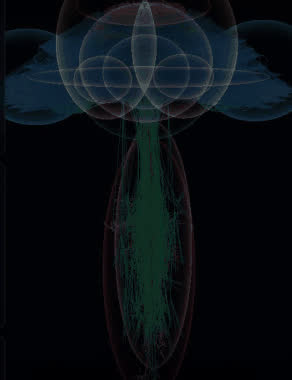
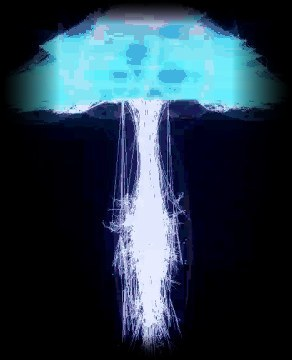
FlySoul video: real footage, Gundyr stills and the dreaming brain
Frames come from the flysoul repo's own recordings:
- a graded Gundyr still (17.2 s of the victory clip) opens and closes
  the loop, with the lock-on on the knight the fly controls; a still
  keeps the loop point seamless
- the victory clip's last 8 s play once from the start of the
  added-network scene
- the visualizer's dreaming segment, blacks crushed and edges feathered,
  blends into the MaleCNS scene without an outline

Claude-Session: https://claude.ai/code/session_01JSaJ6CUKtHwC4GkXxJAqaq

diff --git a/sinek/index.html b/sinek/index.html
@@ -293,35 +293,53 @@ function flyTop(c, x, y, s, wingA) {
 /* repodaki gerçek görüntüler (heyobi/flysoul) */
 const ASSET = 'assets/';
 function seq(prefix, n) { const a = []; for (let i = 0; i < n; i++) { const im = new Image(); im.src = ASSET + prefix + String(i).padStart(3, '0') + '.jpg'; a.push(im); } return a; }
-const CLIP_A = seq('a_', 64), CLIP_V = seq('v_', 64), BRAIN = seq('b_', 48);
-const ASSETS_READY = Promise.all([...CLIP_A, ...CLIP_V, ...BRAIN].map(im => im.decode().catch(() => {})));
+const HERO = new Image(); HERO.src = ASSET + 'gundyr_dik.jpg';
+const CLIP_V = seq('v_', 64), BRAIN = seq('b_', 21);
+const ASSETS_READY = Promise.all([HERO, ...CLIP_V, ...BRAIN].map(im => im.decode().catch(() => {})));
 const frameOf = (arr, k) => arr[Math.floor(TT / P * k * arr.length) % arr.length];
+/* uyku tekrarı (dreaming) kareleri, ileri geri oynar */
+const brainFrame = () => BRAIN[(i => i < 21 ? i : 40 - i)(Math.floor(TT / P * 12 * 40) % 40)];
 function drawImg(c, im, x, y, w, h) {
   if (im && im.complete && im.naturalWidth) c.drawImage(im, x, y, w, h);
   else { c.fillStyle = '#111'; c.fillRect(x, y, w, h); }
 }
-function gamePanel(c, arr, x, y, w, cap) {
+function gamePanel(c, im, x, y, w, cap) {
   const h = w * 272 / 480;
   box(c, x - .08, y - .08, w + .16, h + .16, .12, '#000', 'rgba(255,255,255,.35)', .03);
-  c.save(); c.beginPath(); rrp(c, x, y, w, h, .08); c.clip(); drawImg(c, frameOf(arr, 7), x, y, w, h); c.restore();
+  c.save(); c.beginPath(); rrp(c, x, y, w, h, .08); c.clip(); drawImg(c, im, x, y, w, h); c.restore();
   if (cap) { disc(c, x + .25, y + .3, .08, '#ff3b30'); T(c, cap, x + .42, y + .38, .22, '#fff', { w: 700 }); }
   return h;
 }
+/* oyuncunun kendi kaydından Gundyr karesi, sinematik renk ve kenar karartmasıyla */
+function heroShot(c, x, y, w, alpha) {
+  const h = w * 360 / 420;
+  c.save(); c.globalAlpha = alpha; drawImg(c, HERO, x, y, w, h);
+  c.globalCompositeOperation = 'overlay'; c.fillStyle = 'rgba(224,123,57,.45)'; c.fillRect(x, y, w, h);
+  c.globalCompositeOperation = 'source-over';
+  const v = c.createRadialGradient(x + w * .46, y + h * .35, h * .2, x + w * .5, y + h * .5, h * .85);
+  v.addColorStop(0, 'rgba(10,6,6,0)'); v.addColorStop(1, 'rgba(10,6,6,.85)'); c.fillStyle = v; c.fillRect(x, y, w, h);
+  c.restore();
+  glow(c, x + w * .46, y + h * .11, w * .07, '255,110,40', (.35 + .1 * osc(25)) * alpha);
+  return h;
+}
+/* zafer kaydı, sahneye girildiği anda baştan başlar ve bir kez oynar */
+const victoryFrame = () => CLIP_V[Math.max(0, Math.min(CLIP_V.length - 1, Math.floor((TT - ST[6]) * 8)))];
 const SC = [
 /* V0 arena */
-{ p:{ k:'c', c:[-0.8,1.2], r:0.5 }, draw(c){
-  c.fillStyle = lg(c,0,-8,0,8,[[0,'#120f12'],[.55,'#3b2f28'],[1,'#1d1815']]); c.fillRect(-4.5,-8,9,16);
-  glow(c,1.5,-1,5,'224,123,57',.18);
-  c.fillStyle = '#1a1614';
-  [[-4.5,-3.5,1.1,7],[3.4,-4.5,1.1,8]].forEach(([x,y,w,h]) => c.fillRect(x,y,w,h));
-  c.fillStyle = '#2b2521'; c.fillRect(-4.5,3.2,9,4.8);
-  c.strokeStyle = 'rgba(0,0,0,.35)'; c.lineWidth = .03; c.beginPath(); for (let i = 0; i < 9; i++) { c.moveTo(-4.5,3.6+i*.5); c.lineTo(4.5,3.4+i*.55); } c.stroke();
-  for (let i = 0; i < 30; i++) { const y = 3 - ((TT/P*6 + rnd(i)) % 1) * 9; disc(c,-4.5+rnd(i+9)*9,y,.03,`rgba(255,150,70,${.3+.4*rnd(i+3)})`); }
+{ p:{ k:'c', c:[1.5,0.6], r:0.42 }, draw(c){
+  c.fillStyle = '#1a1513'; c.fillRect(-4.5,-8,9,16);
+  const x = -4.2, y = -4.35, w = 8.4, h = heroShot(c,x,y,w,1);
+  c.fillStyle = lg(c,0,y,0,y+1.1,[[0,'#1a1513'],[1,'rgba(26,21,19,0)']]); c.fillRect(x,y-.01,w,1.1);
+  c.fillStyle = lg(c,0,y+h*.6,0,y+h,[[0,'rgba(26,21,19,0)'],[1,'#1a1513']]); c.fillRect(x,y+h*.6,w,h*.41);
+  c.fillStyle = lg(c,x,0,x+.9,0,[[0,'#1a1513'],[1,'rgba(26,21,19,0)']]); c.fillRect(x-.01,y,.9,h);
+  c.fillStyle = lg(c,x+w-.9,0,x+w,0,[[0,'rgba(26,21,19,0)'],[1,'#1a1513']]); c.fillRect(x+w-.9,y,.91,h);
+  for (let i = 0; i < 40; i++) { const yy = 3 - ((TT/P*6 + rnd(i)) % 1) * 10; disc(c,-4.5+rnd(i+9)*9,yy,.03,`rgba(255,150,70,${.3+.4*rnd(i+3)})`); }
   T(c,'Bir sinek beyni',-3.3,-5.6,.78,PAPER,{w:700});
   T(c,'Dark Souls III oynuyor',-3.3,-4.95,.46,EMBER,{w:700,max:7.2});
-  gamePanel(c,CLIP_A,-3.3,-4.3,6.8,'gerçek kayıt');
-  lockOn(c,-.8,1.2);
-  disc(c,-.8,1.2,.5,'#2b2521');
+  T(c,'Karşısında: Iudex Gundyr (gerçek oyun kaydı)',-3.3,-4.45,.24,PAPER,{w:600,max:7.2});
+  lockOn(c,1.5,.6);
+  T(c,'kontrolde: sinek beyni',1.1,1.8,.24,'#fff',{w:700,a:'center'});
+  disc(c,1.5,.6,.42,'#2b2521');
 }},
 /* V1 sinek */
 { p:{ k:'c', c:[0.4,-1.1], r:0.36 }, draw(c){
@@ -336,8 +354,8 @@ const SC = [
 /* V2 harita */
 { p:{ k:'c', c:[0.9,-1.5], r:0.5 }, draw(c){
   c.fillStyle = '#05070f'; c.fillRect(-4.5,-8,9,16);
-  const w = 6.6, h = w * 380 / 292, x = .9 - w/2, y = -3.3;
-  c.save(); c.beginPath(); c.ellipse(x + w/2, y + h/2, w/2, h/2, 0, 0, TAU); c.clip(); c.globalCompositeOperation = 'lighter'; const im = frameOf(BRAIN,7); drawImg(c, im, x, y, w, h); c.globalAlpha = .6; drawImg(c, im, x, y, w, h); c.restore();
+  const w = 6.6, h = w * 360 / 292, x = .9 - w/2, y = -3.3;
+  c.save(); c.globalCompositeOperation = 'lighter'; const im = brainFrame(); drawImg(c, im, x, y, w, h); c.globalAlpha = .6; drawImg(c, im, x, y, w, h); c.restore();
   glow(c,.9,-1.5,1.0,'232,195,106',.3); disc(c,.9,-1.5,.6,null,GOLD,.05);
   T(c,'MaleCNS v1.0',-3.3,-5.6,.78,PAPER,{w:700});
   T(c,'166.700 nöron',-3.3,-4.95,.46,CYAN,{w:700});
@@ -420,15 +438,19 @@ const SC = [
   for (let a = 0; a < 2; a++) for (const y0 of LY[a][1]) for (const y1 of LY[a+1][1]) { c.beginPath(); c.moveTo(LY[a][0],y0); c.lineTo(LY[a+1][0],y1); c.strokeStyle = 'rgba(216,79,216,.35)'; c.lineWidth = .02; c.stroke(); }
   LY.forEach(([x,ys]) => ys.forEach((y,k) => { const on = rnd(k + x*7 + Math.floor(TT/P*40)) < .5; disc(c,x,y,.13,on ? MAG : 'rgba(216,79,216,.45)'); }));
   T(c,'yapay ağ',3.4,-3.35,.2,MAG,{w:700,a:'center'});
-  gamePanel(c,CLIP_V,-3.3,-1.05,6.8,'gerçek kayıt: ek ağla kazanılan dövüş');
+  gamePanel(c,victoryFrame(),-3.3,-1.05,6.8,'gerçek kayıt: ek ağla kazanılan dövüş');
   glow(c,1.4,3.6,1.2,'216,79,216',.45+.1*osc(25)); disc(c,1.4,3.6,.62,null,MAG,.05);
   T(c,'karar',1.4,4.45,.22,MAG,{w:700,a:'center'});
 }},
 /* V7 soru */
 { p:{ k:'c', c:[2.3,1.0], r:0.34 }, draw(c){
-  c.fillStyle = lg(c,0,-8,0,8,[[0,'#120f12'],[1,'#2b2230']]); c.fillRect(-4.5,-8,9,16);
+  c.fillStyle = '#1c1720'; c.fillRect(-4.5,-8,9,16);
+  const hx = -4.7, hy = -3.4, hw = 9.4, hh = heroShot(c,hx,hy,hw,.6);
+  c.fillStyle = lg(c,0,hy,0,hy+1.3,[[0,'#1c1720'],[1,'rgba(28,23,32,0)']]); c.fillRect(hx,hy-.01,hw,1.3);
+  c.fillStyle = lg(c,0,hy+hh*.5,0,hy+hh,[[0,'rgba(28,23,32,0)'],[1,'#1c1720']]); c.fillRect(hx,hy+hh*.5,hw,hh*.51);
   const n = TW(c,'Harita yetmiyor. Asıl soru: beyin nasıl öğrenir?',-3.3,-5.5,.56,PAPER,7.3,1.15,{w:700});
   T(c,'FlySoul, github.com/heyobi/flysoul',-3.3,-5.5+n*.64+.2,.24,DIM,{w:500});
+  T(c,'Gundyr hâlâ bekliyor',-3.3,-5.5+n*.64+.62,.3,EMBER,{w:700});
   c.beginPath(); c.moveTo(-2.4,.2); c.bezierCurveTo(-2.9,2.8,-2.0,3.6,-1.2,2.7); c.lineTo(-.4,2.0); c.lineTo(1.2,2.0); c.lineTo(2.0,2.7);
   c.bezierCurveTo(2.8,3.6,3.7,2.8,3.2,.2); c.bezierCurveTo(3.0,-.8,2.2,-.9,1.6,-.6); c.lineTo(-.8,-.6); c.bezierCurveTo(-1.4,-.9,-2.2,-.8,-2.4,.2); c.closePath();
   c.fillStyle = '#23202a'; c.fill(); c.strokeStyle = '#3d3846'; c.lineWidth = .05; c.stroke();

diff --git a/sinek/uzun/index.html b/sinek/uzun/index.html
@@ -215,34 +215,53 @@ function lockOn(c, x, y, r) {
 /* repodaki gerçek görüntüler (heyobi/flysoul) */
 const ASSET = '../assets/';
 function seq(prefix, n) { const a = []; for (let i = 0; i < n; i++) { const im = new Image(); im.src = ASSET + prefix + String(i).padStart(3, '0') + '.jpg'; a.push(im); } return a; }
-const CLIP_A = seq('a_', 64), CLIP_V = seq('v_', 64), BRAIN = seq('b_', 48);
-const ASSETS_READY = Promise.all([...CLIP_A, ...CLIP_V, ...BRAIN].map(im => im.decode().catch(() => {})));
+const HERO = new Image(); HERO.src = ASSET + 'gundyr_genis.jpg';
+const CLIP_V = seq('v_', 64), BRAIN = seq('b_', 21);
+const ASSETS_READY = Promise.all([HERO, ...CLIP_V, ...BRAIN].map(im => im.decode().catch(() => {})));
+/* oyuncunun kendi kaydından Gundyr karesi, sinematik renk ve kenar karartmasıyla */
+function heroShot(c, x, y, w, alpha) {
+  const h = w * 360 / 600;
+  c.save(); c.globalAlpha = alpha; drawImg(c, HERO, x, y, w, h);
+  c.globalCompositeOperation = 'overlay'; c.fillStyle = 'rgba(224,123,57,.45)'; c.fillRect(x, y, w, h);
+  c.globalCompositeOperation = 'source-over';
+  const v = c.createRadialGradient(x + w * .4, y + h * .35, h * .2, x + w * .5, y + h * .5, w * .6);
+  v.addColorStop(0, 'rgba(10,6,6,0)'); v.addColorStop(1, 'rgba(10,6,6,.85)'); c.fillStyle = v; c.fillRect(x, y, w, h);
+  c.restore();
+  glow(c, x + w * .317, y + h * .09, w * .05, '255,110,40', (.35 + .1 * osc(25)) * alpha);
+  return h;
+}
+/* zafer kaydı, sahneye varıldığı anda baştan başlar ve bir kez oynar */
+const victoryFrame = () => CLIP_V[S.si === 8 ? Math.min(63, Math.floor(S.holdT * 8)) : S.si === 7 ? 0 : 63];
 const frameOf = (arr, fps) => arr[Math.floor(TT * fps) % arr.length];
+/* uyku tekrarı (dreaming) kareleri, ileri geri oynar */
+const brainFrame = () => BRAIN[(i => i < 21 ? i : 40 - i)(Math.floor(TT * 8.33) % 40)];
 function drawImg(c, im, x, y, w, h) {
   if (im && im.complete && im.naturalWidth) c.drawImage(im, x, y, w, h);
   else { c.fillStyle = '#111'; c.fillRect(x, y, w, h); }
 }
-function gamePanel(c, arr, x, y, w, cap) {
+function gamePanel(c, im, x, y, w, cap) {
   const h = w * 272 / 480;
   box(c, x - .08, y - .08, w + .16, h + .16, .12, '#000', 'rgba(255,255,255,.35)', .03);
-  c.save(); c.beginPath(); rrp(c, x, y, w, h, .08); c.clip(); drawImg(c, frameOf(arr, 8), x, y, w, h); c.restore();
+  c.save(); c.beginPath(); rrp(c, x, y, w, h, .08); c.clip(); drawImg(c, im, x, y, w, h); c.restore();
   if (cap) { disc(c, x + .25, y + .3, .08, '#ff3b30'); T(c, cap, x + .42, y + .38, .22, '#fff', { w: 700 }); }
   return h;
 }
 const SC = [
 /* s0 arena */
-{ name:'Arena', p:{ k:'c', c:[-1.2,0.9], r:0.5 }, draw(c){
-  c.fillStyle = lg(c,0,-4.5,0,4.5,[[0,'#120f12'],[.6,'#3b2f28'],[1,'#1d1815']]); c.fillRect(-8,-4.5,16,9);
-  glow(c,3.5,-.5,6,'224,123,57',.2);
-  c.fillStyle = '#1a1614'; [[-8,-3,1.2,7],[6.8,-4.5,1.2,8]].forEach(([x,y,w,h]) => c.fillRect(x,y,w,h));
-  c.fillStyle = '#2b2521'; c.fillRect(-8,2.6,16,1.9);
-  for (let i = 0; i < 40; i++) { const y = 3 - ((TT*.12 + rnd(i)) % 1) * 7.5; disc(c,-8+rnd(i+9)*16,y,.03,`rgba(255,150,70,${.3+.4*rnd(i+3)})`); }
-  gamePanel(c,CLIP_A,0,-2.5,6.6,'gerçek kayıt');
+{ name:'Arena', p:{ k:'c', c:[3.6,0.3], r:0.45 }, draw(c){
+  c.fillStyle = '#1a1513'; c.fillRect(-8,-4.5,16,9);
+  const x = -.8, y = -3.5, w = 8.8, h = heroShot(c,x,y,w,1);
+  c.fillStyle = lg(c,x,0,x+2.4,0,[[0,'#1a1513'],[1,'rgba(26,21,19,0)']]); c.fillRect(x-.01,y,2.4,h);
+  c.fillStyle = lg(c,0,y,0,y+1.0,[[0,'#1a1513'],[1,'rgba(26,21,19,0)']]); c.fillRect(x,y-.01,w,1.0);
+  c.fillStyle = lg(c,0,y+h*.6,0,y+h,[[0,'rgba(26,21,19,0)'],[1,'#1a1513']]); c.fillRect(x,y+h*.6,w,h*.41);
+  for (let i = 0; i < 50; i++) { const yy = 3 - ((TT*.12 + rnd(i)) % 1) * 8; disc(c,-8+rnd(i+9)*16,yy,.03,`rgba(255,150,70,${.3+.4*rnd(i+3)})`); }
   T(c,'Bir sinek beyni',-6.1,-2.6,.75,PAPER,{w:700});
   T(c,'Dark Souls III oynuyor',-6.1,-1.95,.44,EMBER,{w:700,max:5.8});
   T(c,'Karşısında: Iudex Gundyr',-6.1,-1.35,.26,DIM,{w:600});
-  lockOn(c,-1.2,.9,.5);
-  disc(c,-1.2,.9,.5,'#2b2521');
+  T(c,'gerçek oyun kaydından',-6.1,-1.0,.2,DIM,{w:500});
+  lockOn(c,3.6,.3,.45);
+  T(c,'kontrolde: sinek beyni',3.6,1.35,.24,'#fff',{w:700,a:'center'});
+  disc(c,3.6,.3,.45,'#2b2521');
 }},
 /* s1 sinek */
 { name:'Sinek', p:{ k:'c', c:[3.0,-1.05], r:0.34 }, draw(c){
@@ -258,8 +277,8 @@ const SC = [
 /* s2 harita */
 { name:'Harita', p:{ k:'c', c:[2.75,-1.8], r:0.5 }, draw(c){
   c.fillStyle = '#05070f'; c.fillRect(-8,-4.5,16,9);
-  const h = 6.2, w = h * 292 / 380, x = 2.75 - w/2, y = -3.05;
-  c.save(); c.beginPath(); c.ellipse(x + w/2, y + h/2, w/2, h/2, 0, 0, TAU); c.clip(); c.globalCompositeOperation = 'lighter'; const im = frameOf(BRAIN,6); drawImg(c, im, x, y, w, h); c.globalAlpha = .6; drawImg(c, im, x, y, w, h); c.restore();
+  const h = 6.2, w = h * 292 / 360, x = 2.75 - w/2, y = -3.05;
+  c.save(); c.globalCompositeOperation = 'lighter'; const im = brainFrame(); drawImg(c, im, x, y, w, h); c.globalAlpha = .6; drawImg(c, im, x, y, w, h); c.restore();
   glow(c,2.75,-1.8,1.1,'232,195,106',.3); disc(c,2.75,-1.8,.6,null,GOLD,.05);
   T(c,'MaleCNS v1.0',-6.1,-2.6,.75,PAPER,{w:700});
   T(c,'166.700 nöron',-6.1,-1.95,.44,CYAN,{w:700});
@@ -377,7 +396,7 @@ const SC = [
   L.slice(1).forEach(([x,ys]) => ys.forEach(y => disc(c,x,y,.12,MAG)));
   glow(c,4.6,-1.4,.9,'216,79,216',.4); disc(c,4.6,-1.4,.52,null,MAG,.04);
   T(c,'beynin dışındaki ağ',5.5,-2.9,.22,MAG,{w:700,a:'center'});
-  gamePanel(c,CLIP_V,.4,.6,5.0,'gerçek kayıt: ek ağla kazanılan dövüş');
+  gamePanel(c,victoryFrame(),.4,.6,5.0,'gerçek kayıt: ek ağla kazanılan dövüş');
   T(c,'Beyne bir ek',-6.1,-2.6,.6,PAPER,{w:700,max:5.6});
   T(c,'Aynı oyun bilgisini okuyan yapay ağ',-6.1,-2.0,.26,DIM,{w:500});
   T(c,'Son 1.800 dövüşte yüzde 28 ile 32',-6.1,-1.55,.3,MAG,{w:700,max:5.6});
@@ -385,9 +404,14 @@ const SC = [
 }},
 /* s9 kapanış */
 { name:'Soru', p:{ k:'c', c:[4.8,0.35], r:0.36 }, draw(c){
-  c.fillStyle = lg(c,0,-4.5,0,4.5,[[0,'#120f12'],[1,'#2b2230']]); c.fillRect(-8,-4.5,16,9);
+  c.fillStyle = '#1c1720'; c.fillRect(-8,-4.5,16,9);
+  const hx = -.2, hy = -3.9, hw = 8.2, hh = heroShot(c,hx,hy,hw,.6);
+  c.fillStyle = lg(c,hx,0,hx+2.4,0,[[0,'#1c1720'],[1,'rgba(28,23,32,0)']]); c.fillRect(hx-.01,hy,2.4,hh);
+  c.fillStyle = lg(c,0,hy,0,hy+1.0,[[0,'#1c1720'],[1,'rgba(28,23,32,0)']]); c.fillRect(hx,hy-.01,hw,1.0);
+  c.fillStyle = lg(c,0,hy+hh*.5,0,hy+hh,[[0,'rgba(28,23,32,0)'],[1,'#1c1720']]); c.fillRect(hx,hy+hh*.5,hw,hh*.51);
   const n = TW(c,'Harita yetmiyor. Asıl soru: beyin nasıl öğrenir?',-6.1,-2.6,.56,PAPER,6.0,1.15,{w:700});
   T(c,'github.com/heyobi/flysoul',-6.1,-2.6+n*.64+.15,.26,DIM,{w:500});
+  T(c,'Gundyr hâlâ bekliyor',-6.1,-2.6+n*.64+.6,.3,EMBER,{w:700});
   c.save(); c.translate(2.4,.3);
   c.beginPath(); c.moveTo(-2.4,.2); c.bezierCurveTo(-2.9,2.8,-2.0,3.6,-1.2,2.7); c.lineTo(-.4,2.0); c.lineTo(1.2,2.0); c.lineTo(2.0,2.7);
   c.bezierCurveTo(2.8,3.6,3.7,2.8,3.2,.2); c.bezierCurveTo(3.0,-.8,2.2,-.9,1.6,-.6); c.lineTo(-.8,-.6); c.bezierCurveTo(-1.4,-.9,-2.2,-.8,-2.4,.2); c.closePath();

diff --git a/README.md b/README.md
@@ -73,7 +73,8 @@ Metin, zaferi getirenin eklenen ağ olduğunu açıkça söyler; bunu sineğin k
 
 Bu video, diğer iki videodan farklı olarak gerçek görüntüler de kullanır. Görüntüler `sinek/assets/` klasöründedir ve flysoul reposundan alınmıştır:
 
-- `a_*.jpg` ve `v_*.jpg`: Gerçek oyun kaydının (`media/victory_3b_1x_2026-09-19.mp4`) başından ve sonundan 8'er saniye, saniyede 8 kare. Sonundaki kareler, ek ağla kazanılan dövüşün zafer anıdır.
-- `b_*.jpg`: FlySoul görselleştiricisinin kaydı (`media/flysoul_brain_sleep.gif`). Modellenen devre, gerçek MaleCNS nöron şekilleri üzerinde çiziliyor. Nöron şekilleri MaleCNS'ten alınmıştır, lisansı CC-BY.
+- `gundyr_dik.jpg` ve `gundyr_genis.jpg`: Aynı kaydın 17,2. saniyesinden alınmış Gundyr karesi. Oyun arayüzü dışarıda kalacak şekilde kırpıldı; sayfada renk ve kenar karartmasıyla sinematik bir görünüm veriliyor. Açılışta ve kapanışta kullanılıyor. Durağan bir kare olduğu için döngü noktasında kesme oluşmuyor.
+- `v_*.jpg`: Gerçek oyun kaydının (`media/victory_3b_1x_2026-09-19.mp4`) son 8 saniyesi, saniyede 8 kare. Bu, ek ağla kazanılan dövüşün zafer anı. "Beyne bir ek" sahnesine girildiğinde baştan başlıyor ve bir kez oynuyor.
+- `b_*.jpg`: FlySoul görselleştiricisinin kaydından (`media/flysoul_brain_sleep.gif`) "dreaming" (uyku tekrarı) bölümü, 21 kare. Kareler ileri geri oynatılıyor. Arka plan tam siyaha çekildi ve kenarlar yumuşatıldı; görsel eklemeli karışımla çizildiği için sahneye kenar izi bırakmadan karışıyor. Modellenen devre, gerçek MaleCNS nöron şekilleri üzerinde çiziliyor. Nöron şekilleri MaleCNS'ten alınmıştır, lisansı CC-BY.
 
 Kareler, pencere çubuğu ve arayüz yazıları kırpılarak `ffmpeg` ile çıkarıldı.
